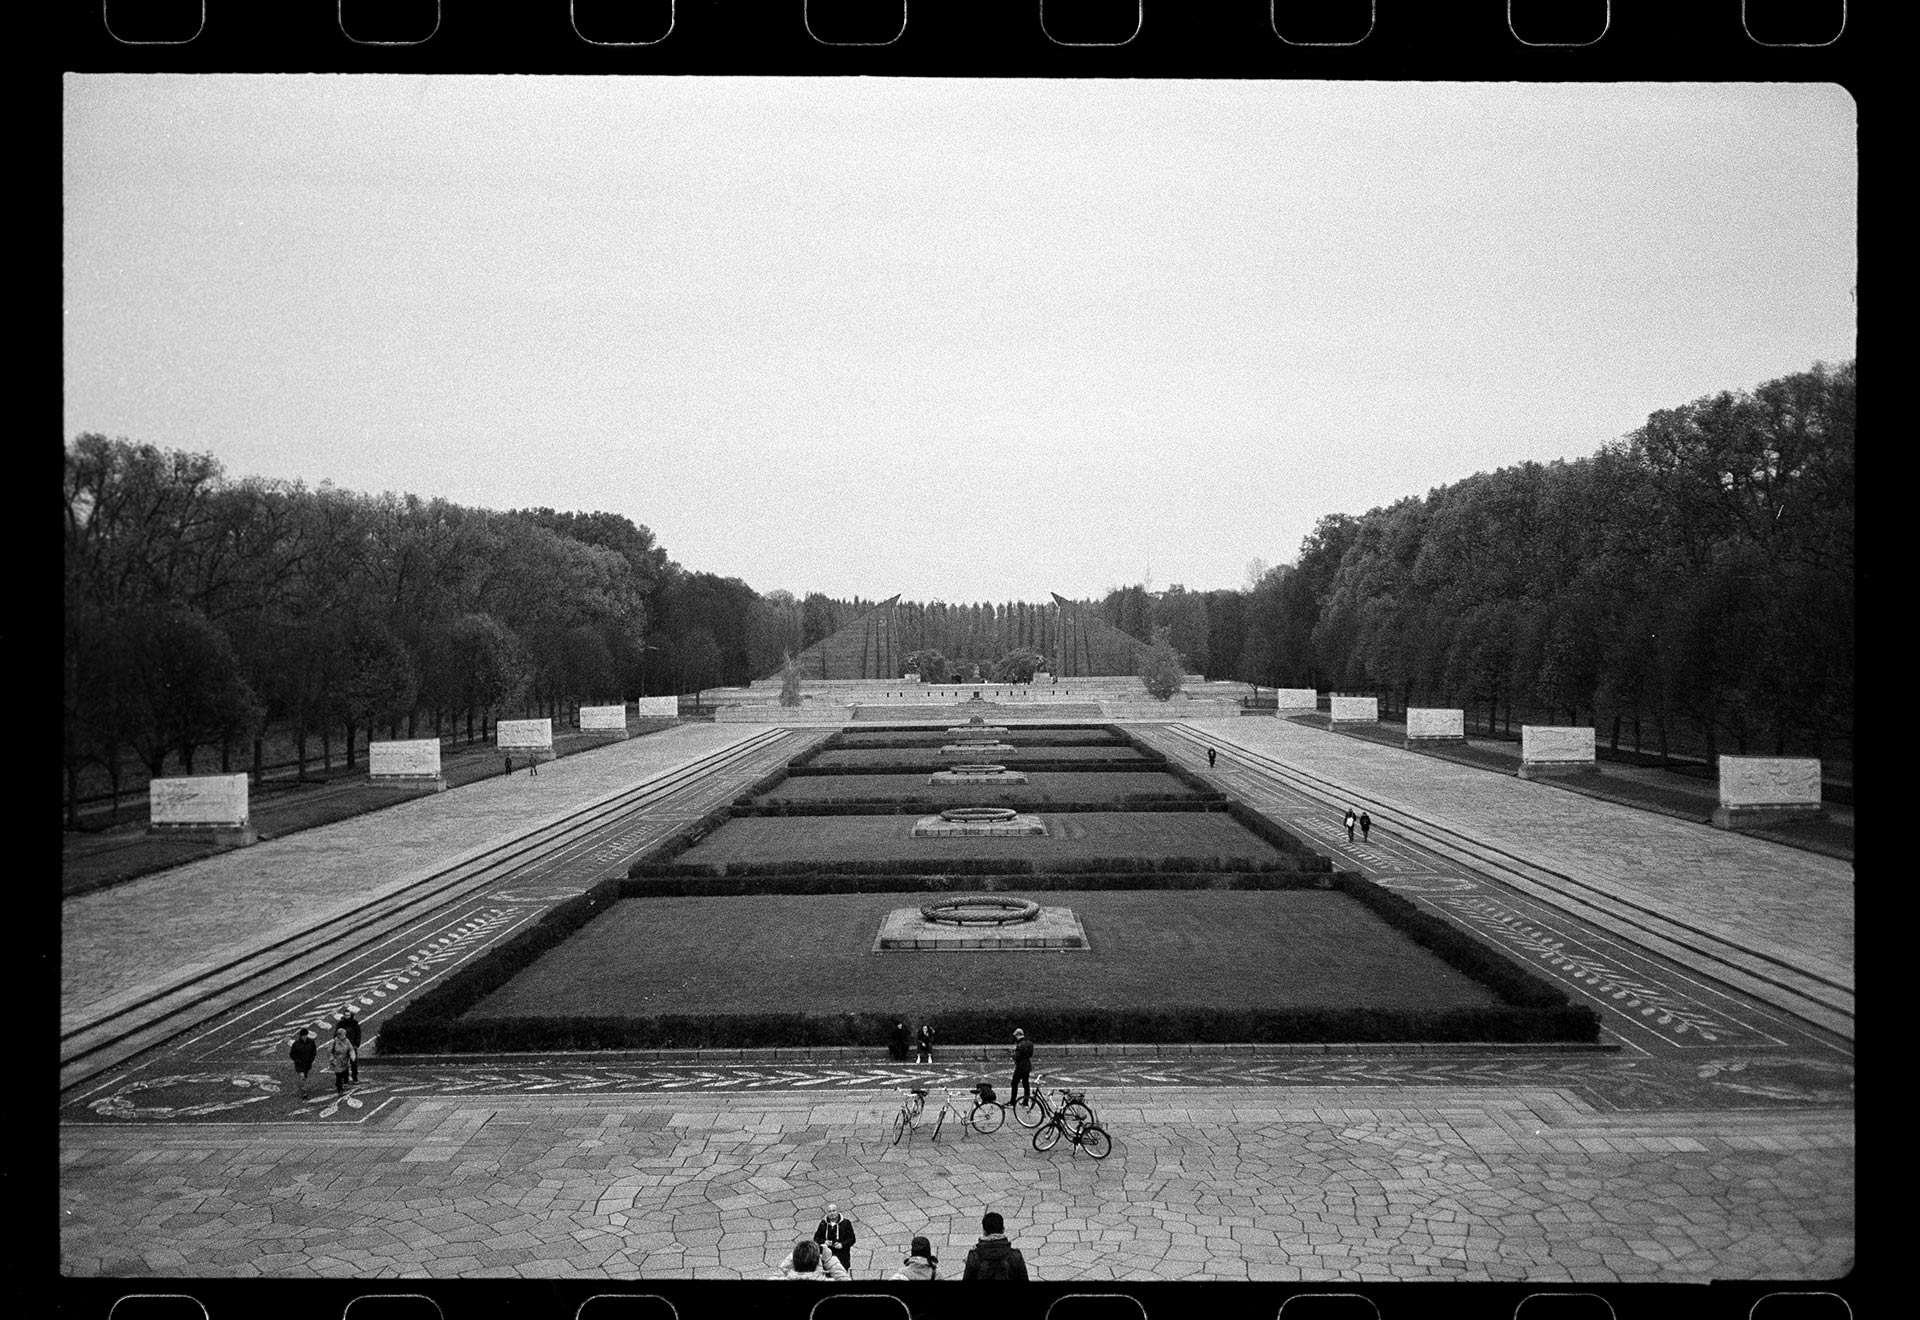
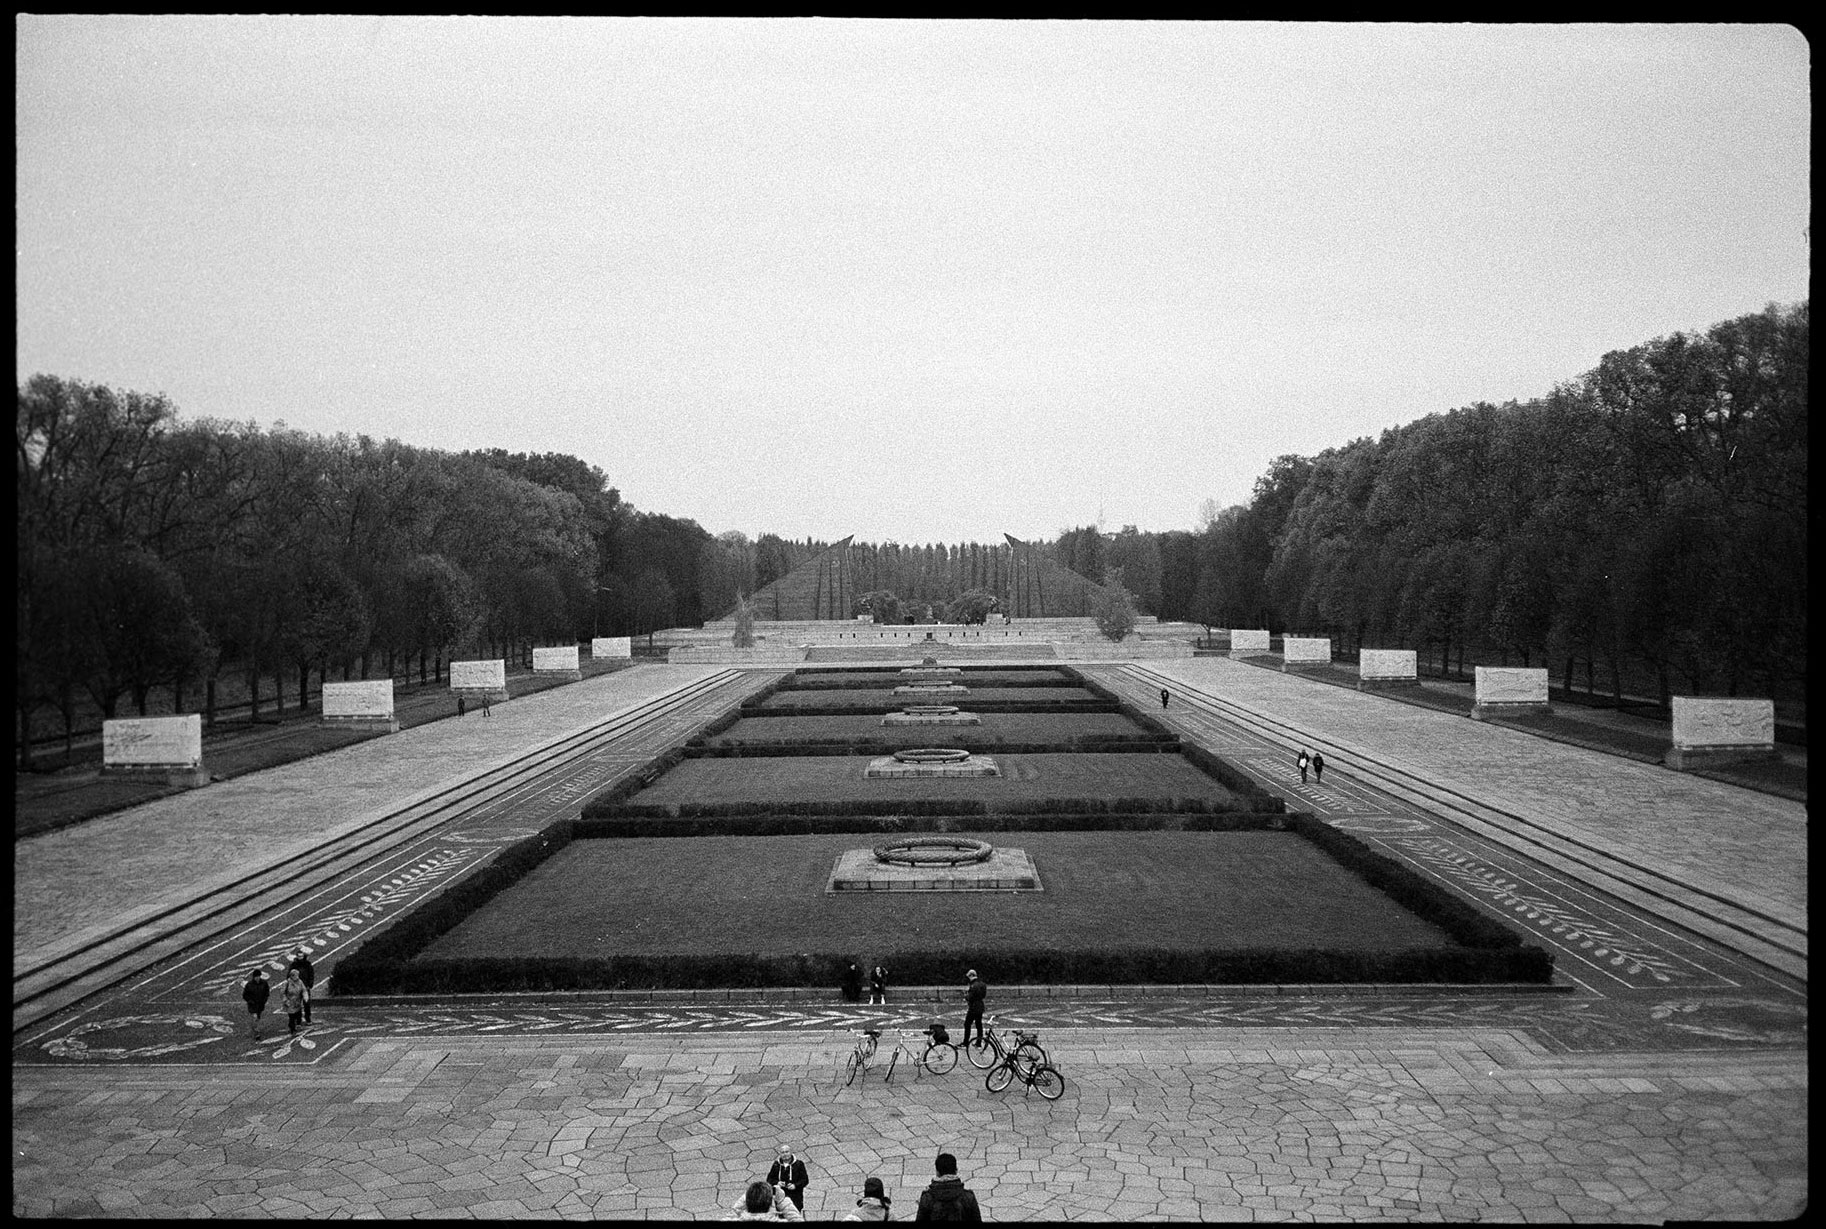
Cropped images more to remove film frame

diff --git a/stylesheets/styles.css b/stylesheets/styles.css
@@ -56,7 +56,7 @@ body {
         padding: 0 24px 0 24px; } }
 
 #content {
-  padding: 32px; }
+  padding: 32px 128px 32px 128px; }
   @media (max-width: 800px) {
     #content {
       padding: 0;

diff --git a/sass/styles.scss b/sass/styles.scss
@@ -91,7 +91,7 @@ body {
 }
 
 #content {
-  padding: $m;
+  padding: $m $xxl $m $xxl;
   @media ( max-width: $tablet ) {
     padding: 0;
     margin: 0;
